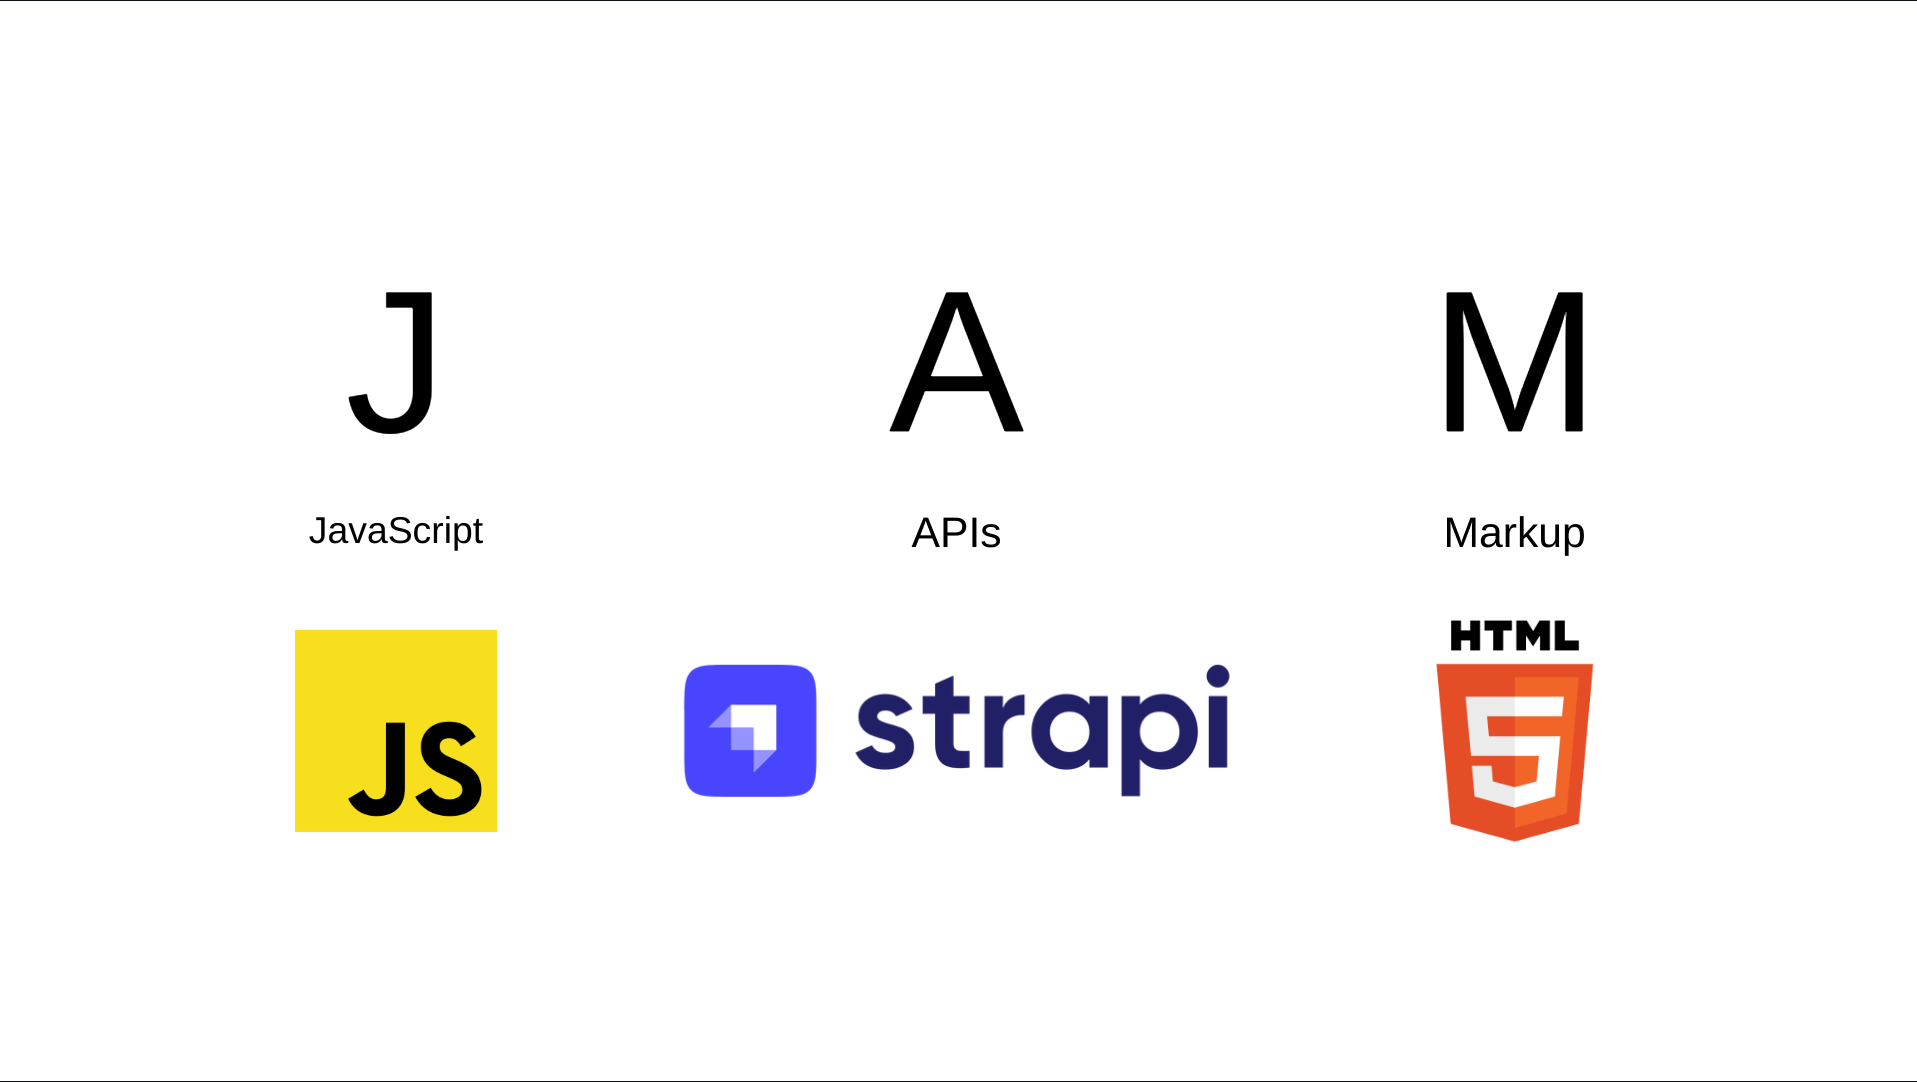
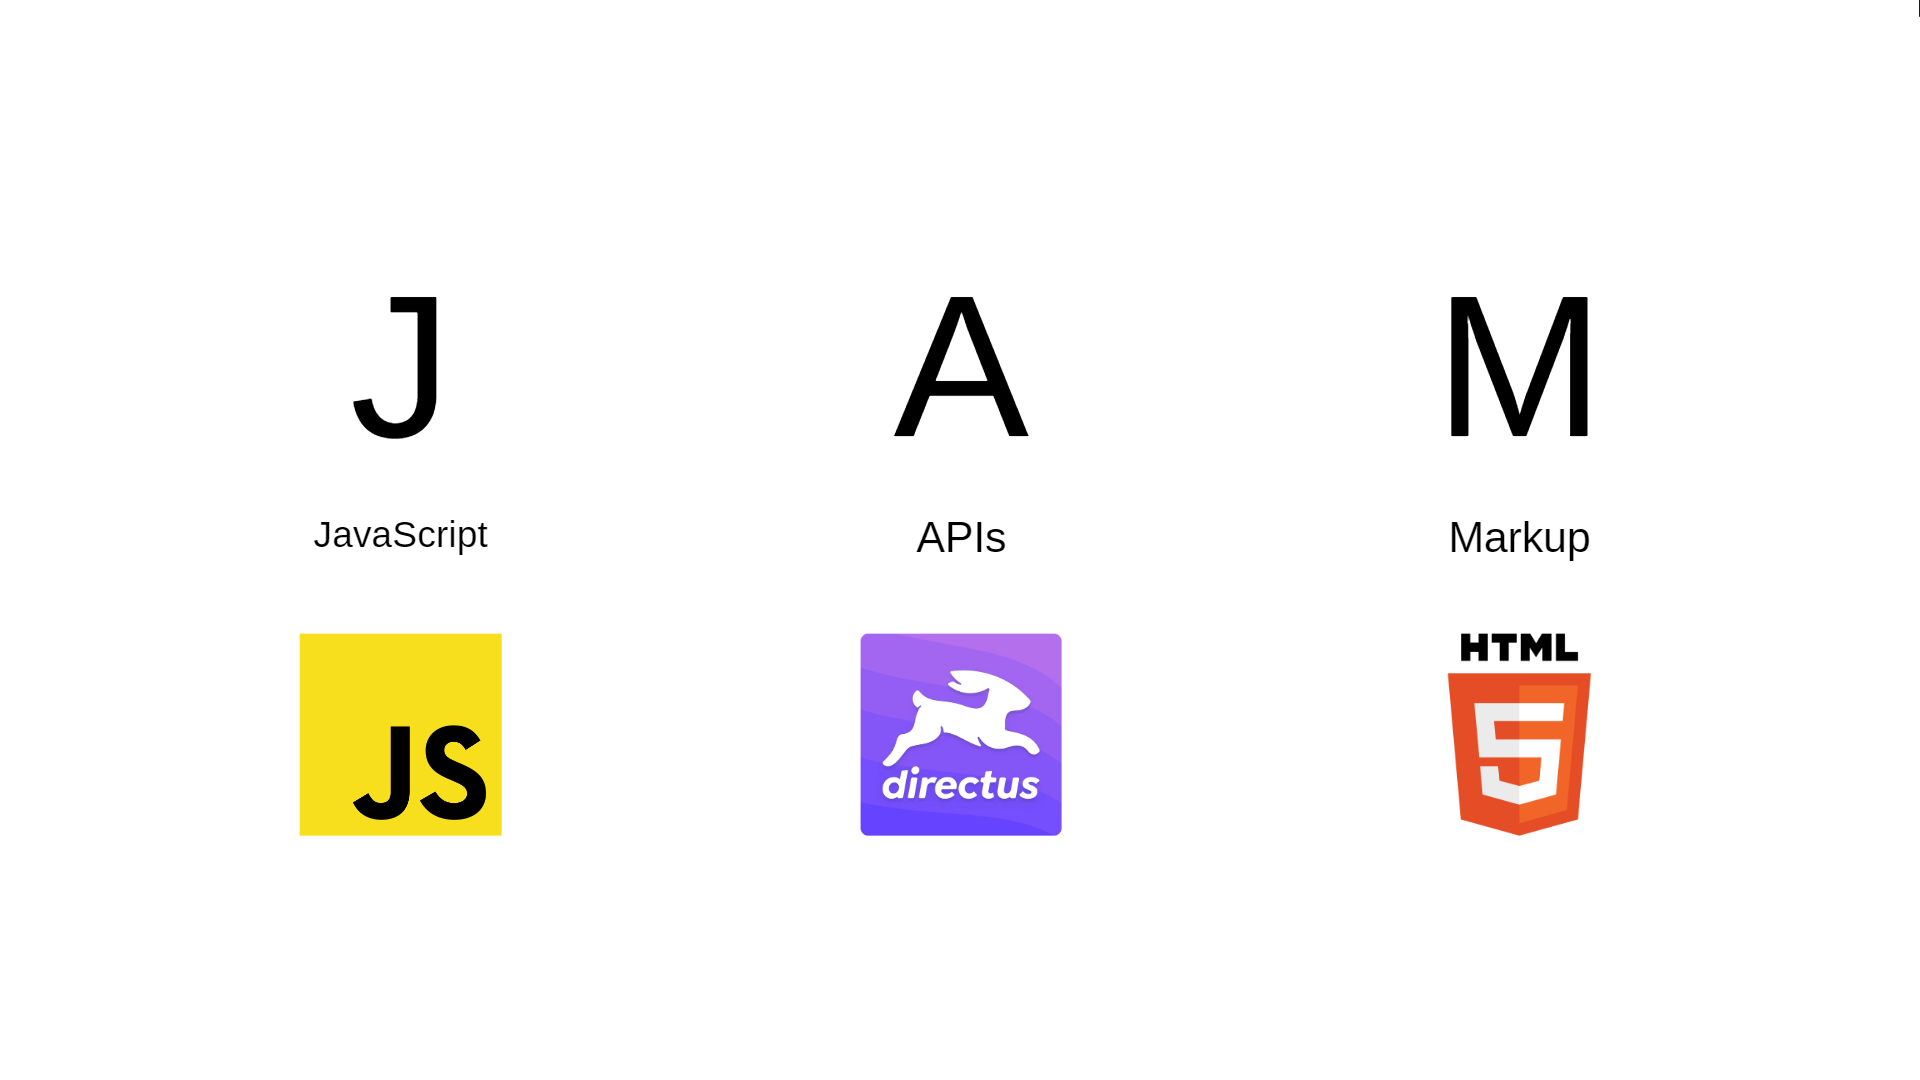
doc: Update readme

diff --git a/README.md b/README.md
@@ -1,99 +1,53 @@
-# Jamstack Website Project with HTML, CSS, JavaScript, and Strapi
+# JAMstack Project with HTML, CSS, JavaScript, and Directus
+
+## Project Overview
+
+This project is a JAMstack application built with static HTML, CSS, JavaScript, and powered by Directus CMS. The front-end of the application is static, served via a CDN, while the back-end CMS is managed by Directus to provide dynamic content via its RESTful API.
+
+## Technologies Used
 
 ![JAMstack](./assets/images/JAMstack.png)
 
-## Project Overview
-This project is a **Jamstack** website built with **HTML**, **CSS**, **JavaScript**, and powered by **Strapi**, a headless CMS. Jamstack architecture provides faster performance, better security, and improved scalability by decoupling the frontend from the backend. With Strapi, we manage content dynamically, making it easy to update and deploy without rebuilding the entire site.
+- **HTML5**: For structuring web pages.
+- **CSS3**: For styling and layout.
+- **JavaScript (Vanilla)**: For dynamic functionality and interacting with the Directus API.
+- **Directus**: A headless CMS that manages content and provides an API to fetch data dynamically.
 
 ## Features
-- **Jamstack architecture:** Modern web development with static content generation for faster page load times.
-Headless CMS: Strapi CMS for content management, enabling easy updates without code changes.
-- **Responsive design:** Built using CSS for mobile-first design, ensuring a seamless user experience across devices.
-- **Dynamic content:** JavaScript to fetch and display data from the Strapi backend via REST API or GraphQL.
-- **Scalability:** Frontend and backend are decoupled, allowing independent scaling of each component.
 
-## Technologies
-- **Frontend:**
-  - **HTML5:** Structure and semantic markup of web pages.
-  - **CSS3:** Styling using flexbox, grid, and responsive design principles.
-  - **JavaScript (ES6+):** Handling interactivity and dynamic content fetching.
-- **Backend:**
-  - **Strapi:** A customizable, open-source headless CMS used to manage content dynamically.
-  - **API:** Content is fetched using Strapi's RESTful API or GraphQL.
-- **Deployment:** The website can be deployed on platforms such as **Netlify**, **Vercel**, or **GitHub Pages**.
+- **Headless CMS**: The content is managed in Directus and fetched dynamically using its API.
+- **JAMstack Architecture**: The app is fully static, improving performance and scalability, while still pulling dynamic content from Directus.
+- **API-Driven**: Uses Directus API to fetch and display data on the website dynamically without needing a back-end server or Node.js.
 
-## Folder Structure
-The folder structure for this Jamstack project follows best practices for maintainability and scalability.
+### Fetching Data from Directus
 
-```bash
-/project-root
-│
-├── /assets                 # Contains images, fonts, and other static assets.
-│   ├── /images             # Website images.
-│   ├── /fonts              # Custom fonts if applicable.
-│
-├── /css                    # CSS files for styling.
-│   ├── main.css            # Global styles.
-│   └── /partials           # Modular CSS files (optional).
-│
-├── /js                     # JavaScript files for interactivity.
-│   ├── main.js             # Main JavaScript file.
-│   └── /services           # Service files for API calls and utilities.
-│       ├── strapiAPI.js    # Handles fetching data from Strapi API.
-│
-├── /vendor                 # External libraries and frameworks (if any).
-│   ├── /css                # Vendor CSS (e.g., Bootstrap).
-│   └── /js                 # Vendor JS (e.g., Swiper.js).
-│
-├── /pages                  # HTML files for individual pages.
-│   ├── index.html          # Homepage.
-│   ├── about.html          # About page.
-│   └── contact.html        # Contact page.
-│
-├── /partials               # Reusable HTML components (e.g., header, footer).
-│   ├── header.html
-│   └── footer.html
-│
-├── /api                    # API documentation or helper files.
-│   └── strapiConfig.js     # Configuration for Strapi API access.
-│
-└── README.md               # Documentation for the project.
-```
-
-## Installation
-### Prerequisites
-### Steps
-
-## Usage
-### Fetching Data from Strapi
-The JavaScript file `strapiAPI.js` handles all API requests to Strapi. It fetches content dynamically from the CMS and renders it on the frontend.
-
-Example of fetching articles from Strapi's REST API:
+In your JavaScript code, you'll interact with the Directus API to fetch and display content dynamically. Here's a basic example to fetch data from an `articles` collection:
 
 ```javascript
+const apiUrl = 'https://your-directus-instance.com';
+
 const fetchArticles = async () => {
   try {
-    const response = await fetch('http://localhost:1337/api/articles');
+    const response = await fetch(`${apiUrl}/items/articles`);
     const data = await response.json();
-    return data;
+
+    // Dynamically render the articles on the page
+    const articlesContainer = document.getElementById('articles');
+    data.data.forEach((article) => {
+      const articleElement = document.createElement('div');
+      articleElement.className = 'article';
+      articleElement.innerHTML = `
+        <h2>${article.title}</h2>
+        <p>${article.content}</p>
+      `;
+      articlesContainer.appendChild(articleElement);
+    });
   } catch (error) {
     console.error('Error fetching articles:', error);
   }
 };
+
+// Call the function to fetch articles on page load
+window.onload = fetchArticles;
 ```
 
-### Customizing Content
-1. Log in to your **Strapi admin panel**.
-2. Add or modify content types (e.g., Articles, Blog Posts).
-3. The changes will be reflected dynamically on the frontend.
-
-### Styling
-Modify the CSS files located in the `/css` folder to change the look and feel of the website. Use `/partials`for modular stylesheets, and consider splitting CSS for specific components or sections of your site.
-
-## Deployment
-The frontend of this Jamstack project can be deployed on static hosting platforms like **Netlify** or **Vercel**. Since the website fetches data dynamically from Strapi via an API, make sure to:
-
-1. **Deploy Strapi** on a hosting service (e.g., Heroku, DigitalOcean).
-2. **Deploy the frontend:**
-  - On **Netlify**: Push your code to GitHub, and connect your repository to Netlify. The site will automatically deploy.
-  - On **Vercel**: Vercel also works with GitHub repositories to automatically build and deploy your frontend.
